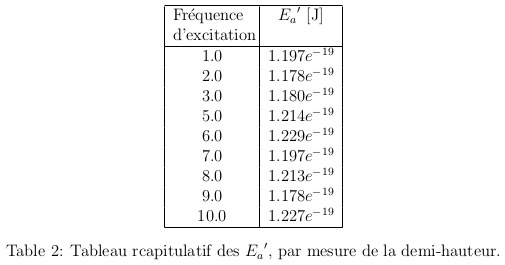
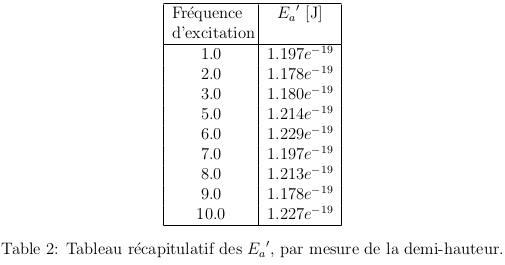
correction tab

diff --git a/Frottement_Interieur/Rapport.tex b/Frottement_Interieur/Rapport.tex
@@ -84,14 +84,14 @@
    \centering
    \begin{tabular}{|c|c|c|c|c|}
 	  \hline
-      Scan & $ln(\omega_0)$ & $\frac{E_a}{k_b}$ & $\omega_0$ [\rm{$rad.s^{-1}$}] & $E_a$ [J]\\
+      Scan & $ln(\tau_0)$ & $\frac{E_a}{k_b}$ & $\tau_0$ [\rm{$s$}] & $E_a$ [J]\\
       \hline
-      Fr\'equence & 28.3572 & -11695.4 & $2.067e^{12}$ & $1.613e^{-19}$ \\
-      Temp\'erature & 30.113 & 12082.6 & $1.196e^{13}$ & $1.667e^{-19}$ \\
-      Refroidissement & 35.8502 & 15392.5 & $3.711e^{15}$ & $2.124e^{-19}$ \\
+      Fr\'equence & 0.0352 & -11695.4 & $4.837e^{-13}$ & $1.613e^{-19}$ \\
+      Temp\'erature & 0.0332 & 12082.6 & $8.357e^{-14}$ & $1.667e^{-19}$ \\
+      Refroidissement & 0.0278 & 15392.5 & $2.694e^{-16}$ & $2.124e^{-19}$ \\
       \hline
    \end{tabular}
-   \caption{Tableau récapitulatif des résultats par lecture du diagramme Arrhenius.}\label{tab:XXX}
+   \caption{Tableau r\'ecapitulatif des r\'esultats par lecture du diagramme Arrhenius.}\label{tab:XXX}
 \end{table}
 
 
@@ -112,7 +112,7 @@
       \centering 10.0 & $1.227e^{-19}$ \\
       \hline
    \end{tabular}
-   \caption{Tableau récapitulatif des ${E_a}'$, par mesure de la demi-hauteur.}\label{tab:YYY}
+   \caption{Tableau r\'ecapitulatif des ${E_a}'$, par mesure de la demi-hauteur.}\label{tab:YYY}
 \end{table}
 
 
